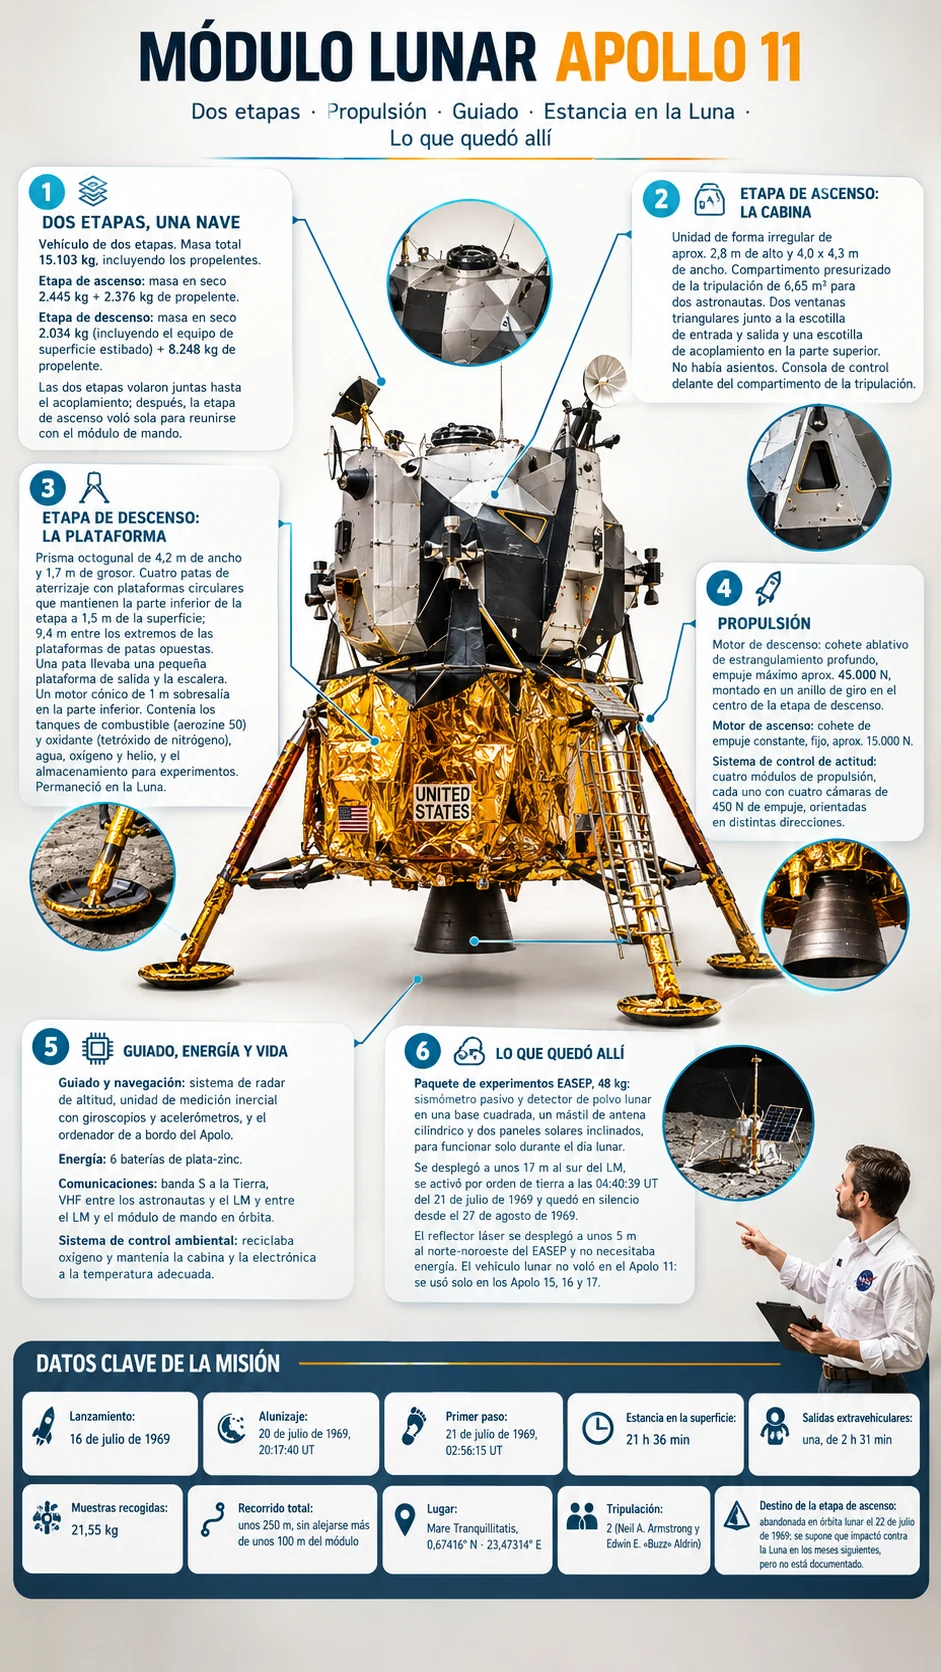
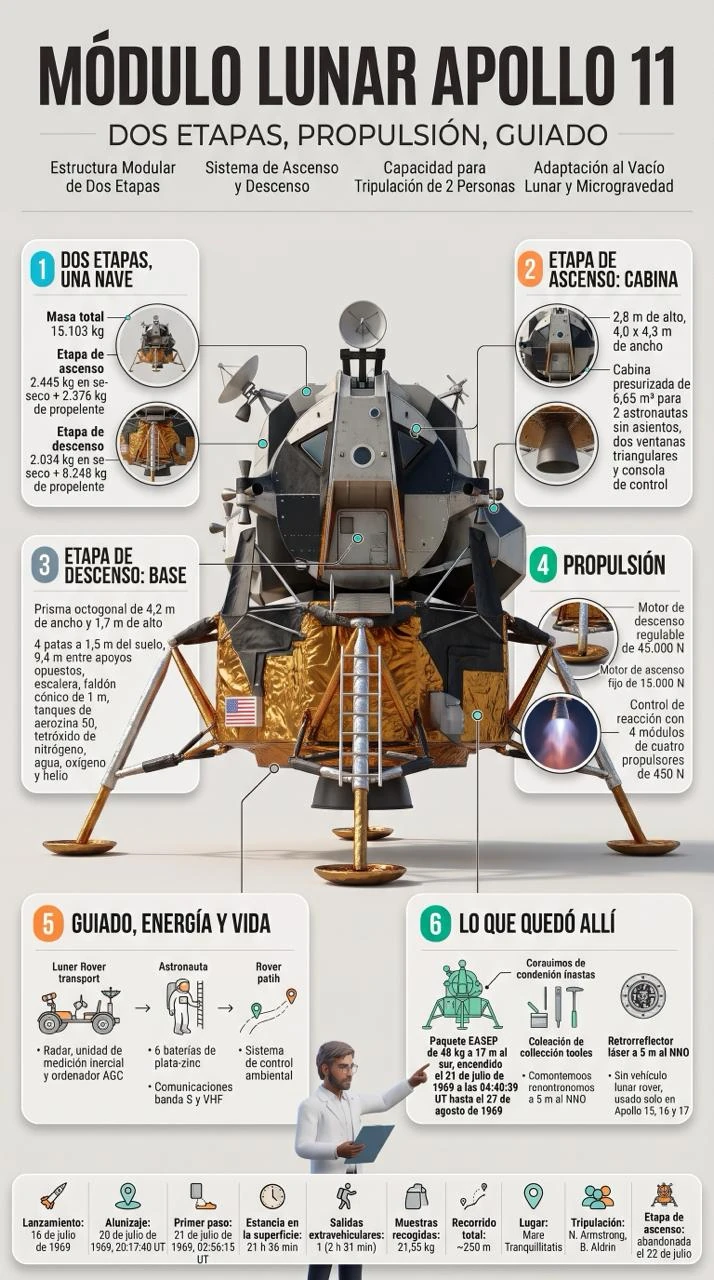
3.5.1 · infografías del Apolo 11 en los tres idiomas y «Próximamente disponible 23-11-2026»
- modulo-lunar.es/en/de.webp, 714x1280, con su título y sus fuentes por idioma.
- El botón Ver infografía sale en todos los aparatos; si no hay infografía anuncia la fecha
  de publicación (23-11-2026) leída de datos/infografias.json.
- Visor: el crédito de fuentes ya no se monta sobre la imagen y la descarga se oculta
  cuando no aplica.

diff --git a/docs/js/motor.js b/docs/js/motor.js
@@ -687,14 +687,39 @@
     });
   }
 
+  /* el visor sirve para dos casos: enseñar la infografía o anunciar cuándo estará */
+  function abrirProximamente() {
+    var img = $('#infografia-imagen');
+    img.hidden = true;
+    img.removeAttribute('src');
+    $('#infografia-titulo').textContent = T('infografia.titulo');
+    $('#infografia-descargar').hidden = true;
+    $('#infografia-credito').textContent = '';
+    var aviso = $('#infografia-aviso');
+    aviso.hidden = false;
+    aviso.className = 'infografia-aviso infografia-proximamente';
+    aviso.textContent = T('infografia.proximamente');
+    var nota = $('#infografia-nota');
+    if (nota) {
+      nota.hidden = false;
+      nota.textContent = T('infografia.proximamente.nota');
+    }
+    $('#visor-infografia').hidden = false;
+    $('#infografia-cerrar').focus();
+  }
+
   function abrirInfografia() {
-    if (!infografiaDe) return;
+    if (!infografiaDe) { abrirProximamente(); return; }
     var d = infografiaDe.datos;
     var img = $('#infografia-imagen');
     $('#infografia-titulo').textContent = d.titulo || T('infografia.titulo');
     $('#infografia-imagen').src = d.archivo + '?v=' + (window.__MSV || '');
     img.alt = T('infografia.alt', { objeto: infografiaDe.objeto.nombre });
+    img.hidden = false;
+    var avisoN = $('#infografia-nota'); if (avisoN) { avisoN.hidden = true; avisoN.textContent = ''; }
+    var avisoCaja = $('#infografia-aviso'); avisoCaja.className = 'infografia-aviso';
     var enlace = $('#infografia-descargar');
+    enlace.hidden = false;
     enlace.href = d.archivo;
     enlace.setAttribute('download', d.archivo.split('/').pop());
     $('#infografia-credito').textContent = d.creditos || '';
@@ -716,13 +741,13 @@
   function pintarBotonInfografia(a) {
     var boton = $('#btn-infografia');
     if (!boton) return;
-    boton.hidden = true;
+    /* el botón sale siempre: si el aparato aún no tiene infografía, al pulsarlo se anuncia la fecha */
+    boton.hidden = false;
     infografiaDe = null;
     infografiaPara(a).then(function (inf) {
       /* si el visitante ya ha cambiado de objeto mientras se cargaba el índice, no se toca */
       if (!inf || !estado.aparato || estado.aparato.id !== a.id) return;
       infografiaDe = inf;
-      boton.hidden = false;
     });
   }
 
@@ -832,8 +857,7 @@
         if ($('#visor-infografia') && !$('#visor-infografia').hidden) {
           /* la infografía abierta se vuelve a resolver: cambia el idioma de la imagen y el aviso */
           infografiaPara(estado.aparato).then(function (inf) {
-            if (!inf) { cerrarInfografia(); return; }
-            infografiaDe = inf;
+            infografiaDe = inf || null;
             abrirInfografia();
           });
         }

diff --git a/docs/index.html b/docs/index.html
@@ -1,12 +1,12 @@
 <!DOCTYPE html>
 <html lang="es" data-i18n-doc-titulo="doc.titulo">
 <head>
-<script>window.__MSV = '3.5.0';</script>
+<script>window.__MSV = '3.5.1';</script>
 <meta charset="utf-8">
 <meta name="viewport" content="width=device-width, initial-scale=1">
 <title>Memory Signals · objetos abandonados de la NASA</title>
-<link rel="icon" type="image/png" sizes="64x64" href="img/favicon-64.png?v=3.5.0">
-<link rel="apple-touch-icon" href="img/apple-touch-icon.png?v=3.5.0">
+<link rel="icon" type="image/png" sizes="64x64" href="img/favicon-64.png?v=3.5.1">
+<link rel="apple-touch-icon" href="img/apple-touch-icon.png?v=3.5.1">
 <meta name="theme-color" content="#05070f">
 <meta property="og:title" content="Memory Signals">
 <meta property="og:description" content="Los aparatos abandonados de la NASA cuentan su historia en primera persona.">
@@ -18,7 +18,7 @@
 <meta property="og:type" content="website">
 <meta name="twitter:card" content="summary_large_image">
 <link rel="icon" href="datos/icono.svg" type="image/svg+xml">
-<link rel="stylesheet" href="css/estilo.css?v=3.5.0">
+<link rel="stylesheet" href="css/estilo.css?v=3.5.1">
 </head>
 <body>
 
@@ -36,8 +36,8 @@
 <header class="barra">
   <button type="button" class="marca" id="btn-inicio" title="Volver al inicio">
     <picture>
-      <source media="(max-width:620px)" srcset="img/logo-emblem.png?v=3.5.0">
-      <img class="marca-logo" src="img/logo-memory-signals.png?v=3.5.0"
+      <source media="(max-width:620px)" srcset="img/logo-emblem.png?v=3.5.1">
+      <img class="marca-logo" src="img/logo-memory-signals.png?v=3.5.1"
            alt="Memory Signals" width="1272" height="499">
     </picture>
   </button>
@@ -206,6 +206,7 @@
     </div>
   </div>
   <p class="infografia-aviso" id="infografia-aviso" hidden></p>
+  <p class="infografia-nota" id="infografia-nota" hidden></p>
   <div class="infografia-lienzo"><img id="infografia-imagen" alt=""></div>
   <p class="infografia-credito" id="infografia-credito"></p>
 </div>
@@ -219,12 +220,12 @@
   </div>
 </div>
 
-<script src="js/idioma.js?v=3.5.0"></script>
-<script src="js/escena.js?v=3.5.0"></script>
-<script src="js/visor3d.js?v=3.5.0"></script>
-<script src="js/mapa.js?v=3.5.0"></script>
-<script src="js/hitos.js?v=3.5.0"></script>
-<script src="js/chat.js?v=3.5.0"></script>
-<script src="js/motor.js?v=3.5.0"></script>
+<script src="js/idioma.js?v=3.5.1"></script>
+<script src="js/escena.js?v=3.5.1"></script>
+<script src="js/visor3d.js?v=3.5.1"></script>
+<script src="js/mapa.js?v=3.5.1"></script>
+<script src="js/hitos.js?v=3.5.1"></script>
+<script src="js/chat.js?v=3.5.1"></script>
+<script src="js/motor.js?v=3.5.1"></script>
 </body>
 </html>

diff --git a/docs/participa.html b/docs/participa.html
@@ -1,23 +1,23 @@
 <!DOCTYPE html>
 <html lang="es" data-i18n-doc-titulo="p.doc.titulo" data-i18n-doc-meta="p.doc.meta">
 <head>
-<script>window.__MSV = '3.5.0';</script>
+<script>window.__MSV = '3.5.1';</script>
 <meta charset="utf-8">
 <meta name="viewport" content="width=device-width, initial-scale=1">
 <title>Participa · propón un objeto olvidado · Memory Signals</title>
 <meta name="description" content="Propón un objeto abandonado de la exploración espacial y aporta fotos o documentos para ampliar Memory Signals.">
-<link rel="icon" type="image/png" sizes="64x64" href="img/favicon-64.png?v=3.5.0">
+<link rel="icon" type="image/png" sizes="64x64" href="img/favicon-64.png?v=3.5.1">
 <meta name="theme-color" content="#05070f">
-<link rel="stylesheet" href="css/estilo.css?v=3.5.0">
-<link rel="stylesheet" href="css/participa.css?v=3.5.0">
+<link rel="stylesheet" href="css/estilo.css?v=3.5.1">
+<link rel="stylesheet" href="css/participa.css?v=3.5.1">
 </head>
 <body class="pagina-participa">
 
 <header class="barra barra-simple">
   <a class="marca" href="index.html" title="Volver a la aplicación" data-i18n-title="p.nav.volver">
     <picture>
-      <source media="(max-width:620px)" srcset="img/logo-emblem.png?v=3.5.0">
-      <img class="marca-logo" src="img/logo-memory-signals.png?v=3.5.0" alt="Memory Signals" width="1272" height="499">
+      <source media="(max-width:620px)" srcset="img/logo-emblem.png?v=3.5.1">
+      <img class="marca-logo" src="img/logo-memory-signals.png?v=3.5.1" alt="Memory Signals" width="1272" height="499">
     </picture>
   </a>
   <nav class="nav-simple">
@@ -230,8 +230,8 @@
   <span><a href="privacidad.html" data-i18n="p.footer.politica">Política de privacidad</a></span>
 </footer>
 
-<script src="js/idioma.js?v=3.5.0"></script>
-<script src="js/idioma-paginas.js?v=3.5.0"></script>
-<script src="js/participa.js?v=3.5.0"></script>
+<script src="js/idioma.js?v=3.5.1"></script>
+<script src="js/idioma-paginas.js?v=3.5.1"></script>
+<script src="js/participa.js?v=3.5.1"></script>
 </body>
 </html>

diff --git a/docs/privacidad.html b/docs/privacidad.html
@@ -1,24 +1,24 @@
 <!DOCTYPE html>
 <html lang="es" data-i18n-doc-titulo="pv.doc.titulo" data-i18n-doc-meta="pv.doc.meta">
 <head>
-<script>window.__MSV = '3.5.0';</script>
+<script>window.__MSV = '3.5.1';</script>
 <meta charset="utf-8">
 <meta name="viewport" content="width=device-width, initial-scale=1">
 <title>Política de privacidad · Memory Signals</title>
 <meta name="description" content="Qué datos recoge el formulario de contribuciones de Memory Signals, para qué se usan y cómo ejercer tus derechos.">
 <meta name="robots" content="index,follow">
-<link rel="icon" type="image/png" sizes="64x64" href="img/favicon-64.png?v=3.5.0">
+<link rel="icon" type="image/png" sizes="64x64" href="img/favicon-64.png?v=3.5.1">
 <meta name="theme-color" content="#05070f">
-<link rel="stylesheet" href="css/estilo.css?v=3.5.0">
-<link rel="stylesheet" href="css/participa.css?v=3.5.0">
+<link rel="stylesheet" href="css/estilo.css?v=3.5.1">
+<link rel="stylesheet" href="css/participa.css?v=3.5.1">
 </head>
 <body class="pagina-legal">
 
 <header class="barra barra-simple">
   <a class="marca" href="index.html" title="Volver a la aplicación" data-i18n-title="p.nav.volver">
     <picture>
-      <source media="(max-width:620px)" srcset="img/logo-emblem.png?v=3.5.0">
-      <img class="marca-logo" src="img/logo-memory-signals.png?v=3.5.0" alt="Memory Signals" width="1272" height="499">
+      <source media="(max-width:620px)" srcset="img/logo-emblem.png?v=3.5.1">
+      <img class="marca-logo" src="img/logo-memory-signals.png?v=3.5.1" alt="Memory Signals" width="1272" height="499">
     </picture>
   </a>
   <nav class="nav-simple">
@@ -178,7 +178,7 @@
   <span data-i18n-html="pv.footer.responsable">responsable: Antonio Pérez Pérez · <a href="mailto:info@gesemweb.net">info@gesemweb.net</a></span>
 </footer>
 
-<script src="js/idioma.js?v=3.5.0"></script>
-<script src="js/idioma-paginas.js?v=3.5.0"></script>
+<script src="js/idioma.js?v=3.5.1"></script>
+<script src="js/idioma-paginas.js?v=3.5.1"></script>
 </body>
 </html>

diff --git a/docs/js/idioma.js b/docs/js/idioma.js
@@ -107,6 +107,8 @@
       'infografia.cerrar': 'Cerrar la infografía',
       'infografia.soloEs': 'Esta infografía está solo en español.',
       'infografia.alt': 'Infografía de {objeto}',
+      'infografia.proximamente': 'Próximamente disponible 23-11-2026',
+      'infografia.proximamente.nota': 'Todavía no está publicada. Mientras tanto puedes ver su ficha, sus fuentes y su modelo 3D.',
       'objeto.nivel': 'Nivel de lectura',
       'que.titulo': 'Qué estás viendo',
       "que.p1": "Esto es <strong>Memory Signals</strong>, un proyecto del reto <em>NASA's Discarded Equipment Storytelling</em> del NASA Space Apps Challenge 2026.",
@@ -228,6 +230,8 @@
       'infografia.cerrar': 'Close the infographic',
       'infografia.soloEs': 'This infographic is only available in Spanish.',
       'infografia.alt': 'Infographic of {objeto}',
+      'infografia.proximamente': 'Coming soon, 23-11-2026',
+      'infografia.proximamente.nota': 'Not published yet. In the meantime you can see its record, its sources and its 3D model.',
       'objeto.nivel': 'Reading level',
       'que.titulo': 'What you are seeing',
       "que.p1": "This is <strong>Memory Signals</strong>, a project for the <em>NASA's Discarded Equipment Storytelling</em> challenge of the NASA Space Apps Challenge 2026.",
@@ -349,6 +353,8 @@
       'infografia.cerrar': 'Infografik schließen',
       'infografia.soloEs': 'Diese Infografik gibt es nur auf Spanisch.',
       'infografia.alt': 'Infografik von {objeto}',
+      'infografia.proximamente': 'Demnächst verfügbar, 23.11.2026',
+      'infografia.proximamente.nota': 'Noch nicht veröffentlicht. In der Zwischenzeit kannst du die Akte, die Quellen und das 3D-Modell ansehen.',
       'objeto.nivel': 'Lesestufe',
       'que.titulo': 'Was du hier siehst',
       "que.p1": "Das ist <strong>Memory Signals</strong>, ein Projekt zur Aufgabe <em>NASA's Discarded Equipment Storytelling</em> des NASA Space Apps Challenge 2026.",

diff --git a/docs/css/estilo.css b/docs/css/estilo.css
@@ -774,8 +774,10 @@ code{background:rgba(255,255,255,.09);padding:2px 6px;border-radius:6px;font-siz
 .infografia-barra h2{margin:0;font-size:1rem;color:#eaf2ff;font-weight:600}
 .infografia-acciones{display:flex;align-items:center;gap:10px}
 .infografia-acciones .secundario{text-decoration:none;display:inline-block}
-.infografia-lienzo{flex:1 1 auto;display:flex;justify-content:center;align-items:flex-start;min-height:0}
-.infografia-lienzo img{max-width:min(100%,900px);height:auto;border-radius:10px;box-shadow:0 18px 50px rgba(0,0,0,.55);background:#0d131f}
+.infografia-acciones .secundario[hidden]{display:none}
+.infografia-lienzo{flex:0 0 auto;display:flex;justify-content:center;align-items:flex-start;width:100%}
+.infografia-lienzo img{max-width:min(100%,860px);height:auto;border-radius:10px;box-shadow:0 18px 50px rgba(0,0,0,.55);background:#0d131f}
+.infografia-lienzo img[hidden]{display:none}
 .infografia-aviso{max-width:900px;margin:0 auto 8px;font-size:.8rem;color:#ffd479;text-align:center}
 .infografia-credito{max-width:900px;margin:8px auto 0;font-size:.72rem;color:#9fb0c9;text-align:center}
 @media (max-width:640px){
@@ -783,3 +785,12 @@ code{background:rgba(255,255,255,.09);padding:2px 6px;border-radius:6px;font-siz
   .infografia-barra h2{font-size:.9rem}
   .infografia-lienzo img{border-radius:6px}
 }
+
+/* ---------- infografía que aún no está: se anuncia la fecha ---------- */
+.infografia-aviso.infografia-proximamente{
+  margin:auto;font-size:clamp(1rem,2.6vw,1.35rem);font-weight:600;color:#eaf2ff;text-wrap:balance;
+  background:rgba(26,44,78,.97);border:1px solid rgba(120,200,255,.35);border-radius:14px;
+  padding:22px 26px;text-align:center;max-width:520px;box-shadow:0 18px 50px rgba(0,0,0,.5)
+}
+.infografia-nota{max-width:520px;margin:12px auto 0;font-size:.86rem;line-height:1.5;color:#9fb0c9;text-align:center}
+.infografia-nota[hidden]{display:none}

diff --git a/CHANGELOG.md b/CHANGELOG.md
@@ -1,3 +1,12 @@
+## v3.5.1 — 2026-11-16
+
+- Infografía del módulo lunar del Apolo 11 en **los tres idiomas**: español, inglés y alemán.
+- El botón **Ver infografía** sale en todos los aparatos. En los que aún no la tienen, al pulsarlo anuncia **«Próximamente disponible 23-11-2026»** con una nota que remite a la ficha, las fuentes y el modelo 3D. La fecha se cambia en un solo sitio: `_proximamente` de `datos/infografias.json`.
+- El visor se ha reordenado: el crédito de fuentes ya no se monta encima de la imagen y la descarga se oculta cuando no hay nada que descargar.
+
+### Pendiente de la imagen del Apolo 11
+Los datos son correctos y están cotejados con el NSSDCA, pero quedan rótulos corruptos en las ilustraciones pequeñas de los paneles 5 y 6 (detalle en el informe del 16-11). Se corregirán cuando llegue la versión regenerada.
+
 ## v3.5.0 — 2026-11-16
 
 **Infografías descargables, traducciones completas y modelos ligeros.**
